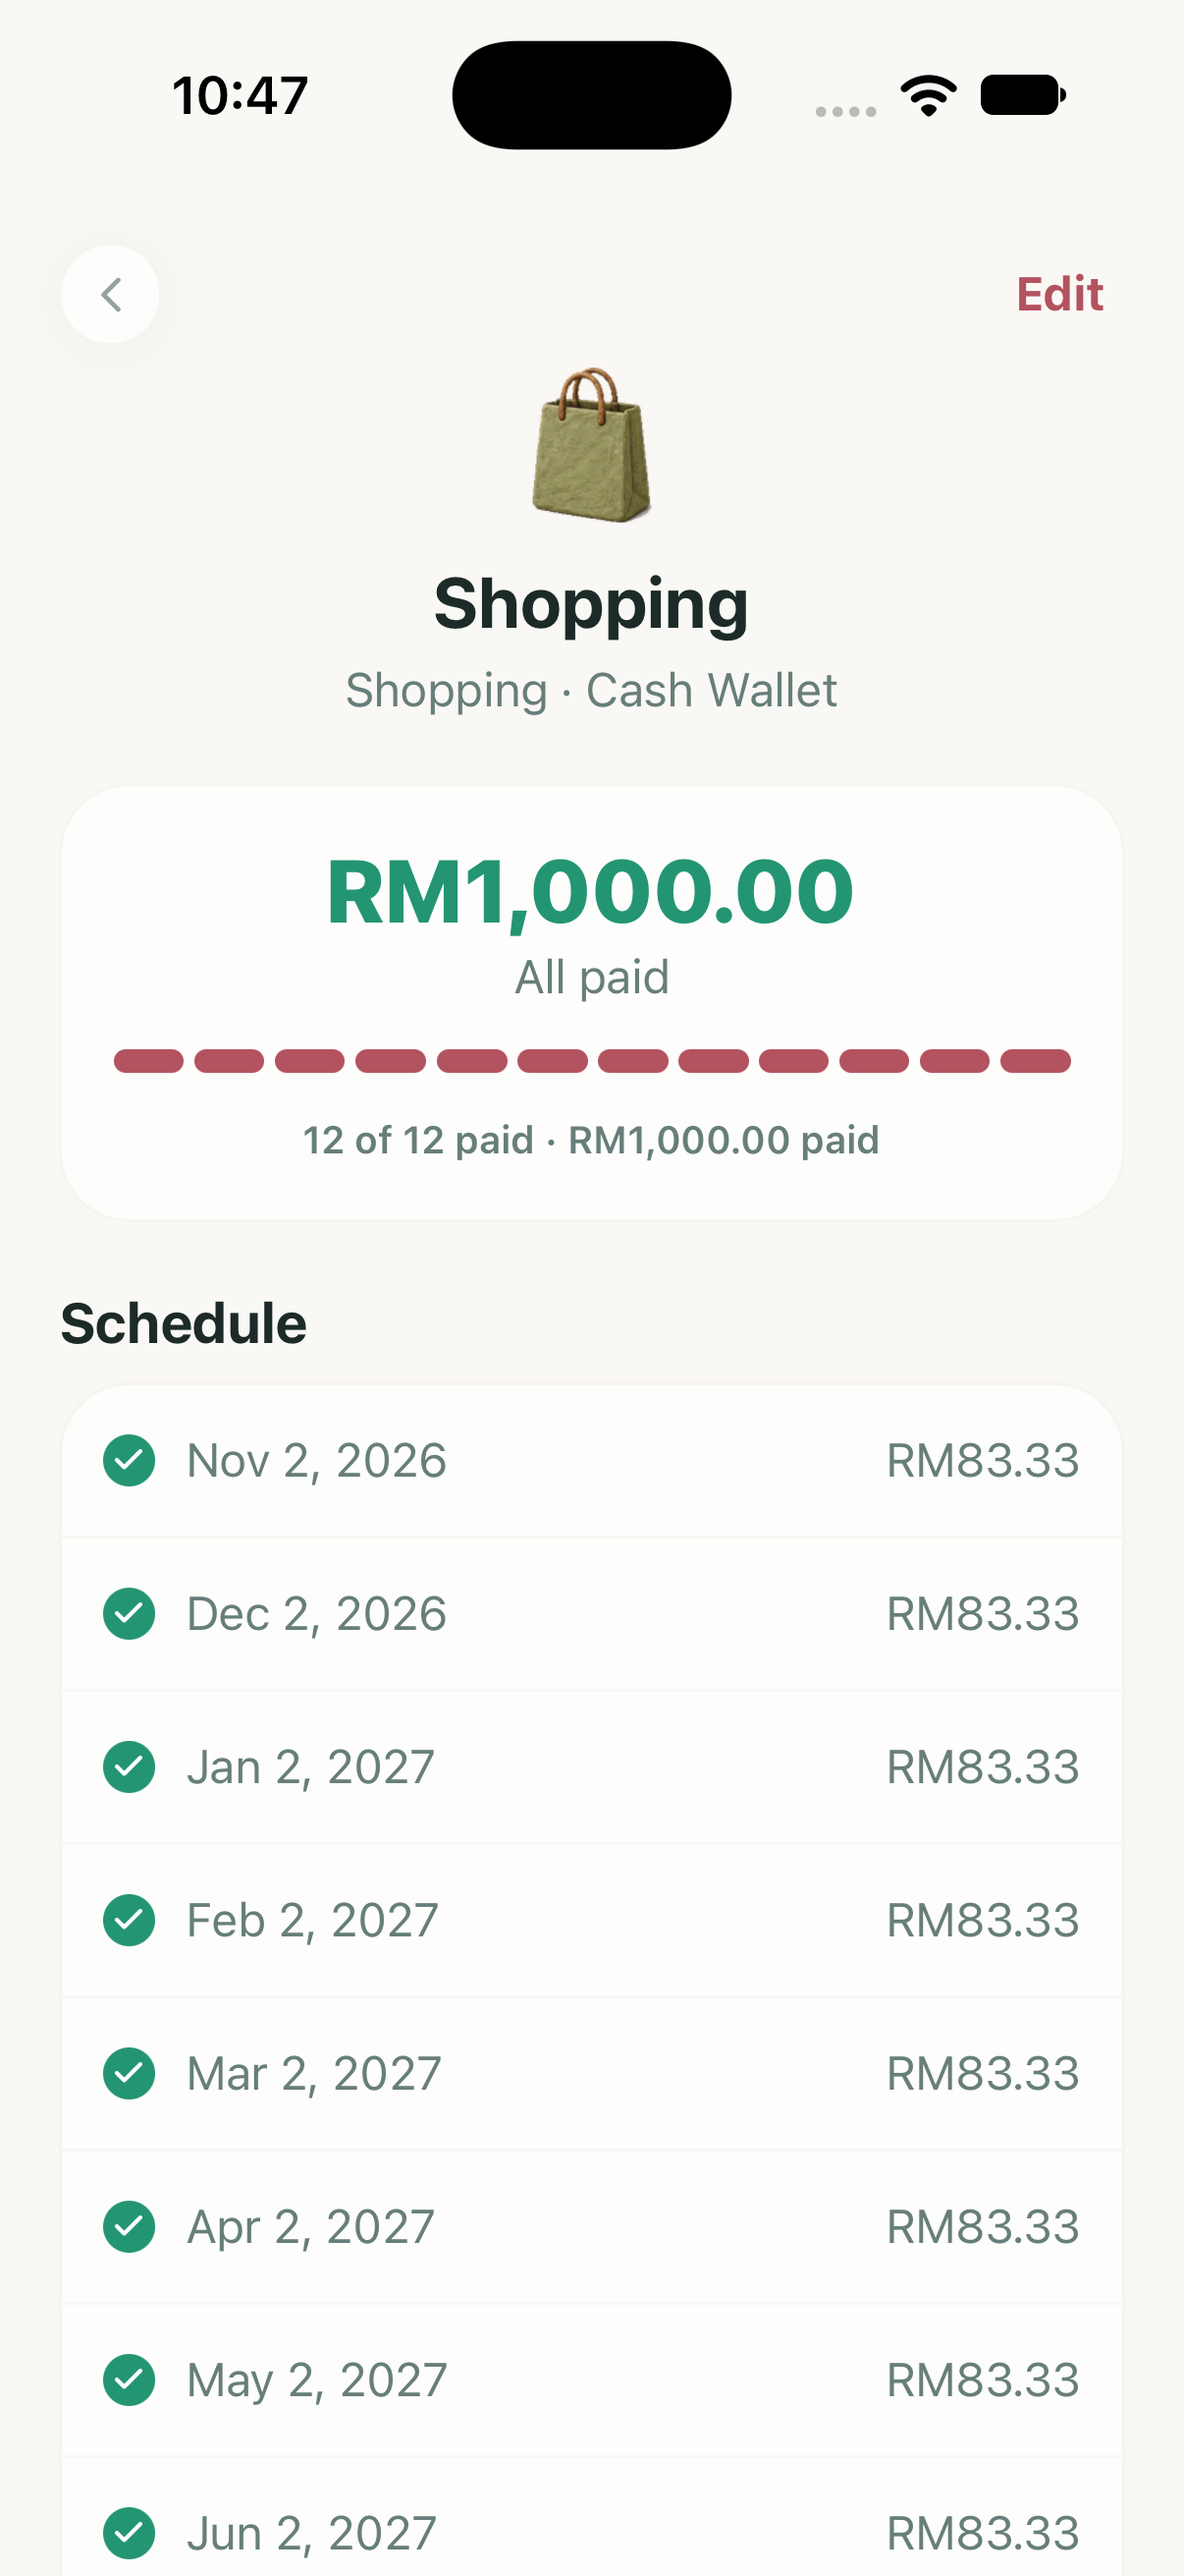
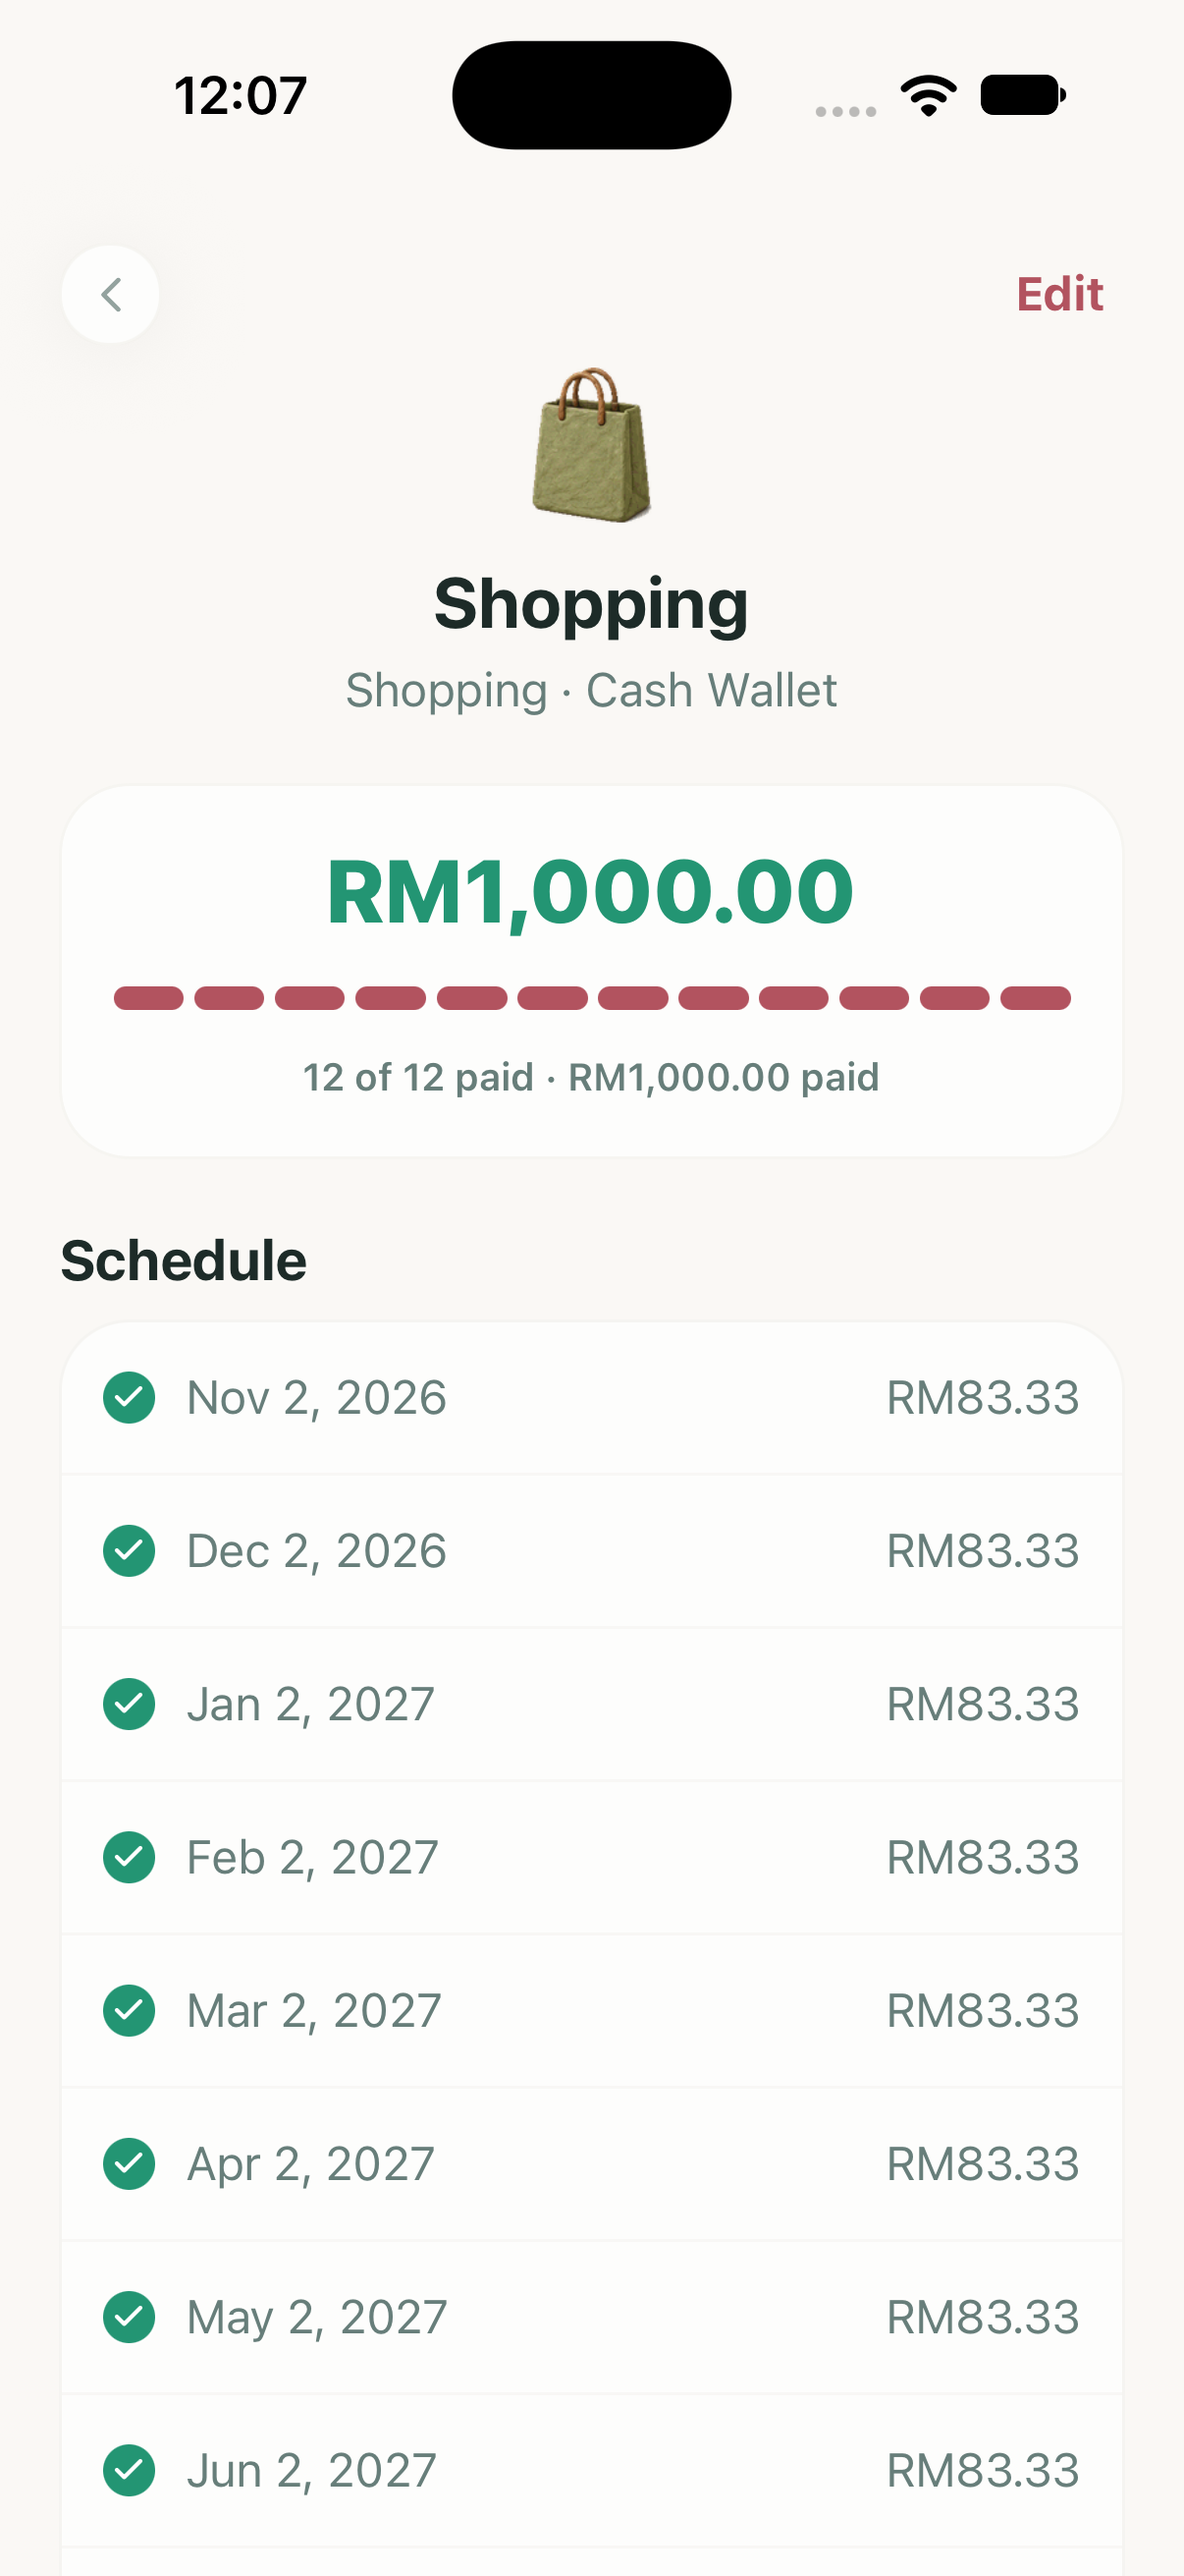
Put the last payment under Edit plan's amount; drop "All paid"
- The last payment shows under the typed amount, in the accent colour.
- A fully paid plan's page shows the green total and full bar without an
  "All paid" line; a plan that ended with payments skipped still says
  Finished.

diff --git a/apps/mobile/features/instalments/screens/InstalmentPlanScreen.tsx b/apps/mobile/features/instalments/screens/InstalmentPlanScreen.tsx
@@ -167,13 +167,15 @@ export function InstalmentPlanScreen({
               <Text variant="title" tone={plan.complete ? 'success' : 'default'}>
                 {plan.complete ? money(plan.paidAmount) : money(plan.leftAmount)}
               </Text>
-              <Text variant="body" tone="muted">
-                {plan.complete
-                  ? plan.paidCount === plan.entries.length
-                    ? I18n.t('instalments.all_paid')
-                    : I18n.t('instalments.section_finished')
-                  : I18n.t('instalments.left_label')}
-              </Text>
+              {/* Fully paid needs no words: the green total and full bar say it.
+                  A plan that ended with payments skipped says it finished. */}
+              {plan.complete && plan.paidCount === plan.entries.length ? null : (
+                <Text variant="body" tone="muted">
+                  {plan.complete
+                    ? I18n.t('instalments.section_finished')
+                    : I18n.t('instalments.left_label')}
+                </Text>
+              )}
             </View>
             <View className="self-stretch">
               <InstalmentProgressBar plan={plan} />
@@ -493,23 +495,23 @@ function InstalmentPlanEditSheet({
                     <Text variant="body" tone="muted">
                       {I18n.t('instalments.payment_amount')}
                     </Text>
-                    <TextInput
-                      value={amountText}
-                      onChangeText={setAmountText}
-                      keyboardType="decimal-pad"
-                      selectTextOnFocus
-                      style={[SINGLE_LINE_TEXT_INPUT_STYLE, { color: themeColors.text }]}
-                      className="h-12 flex-1 text-right text-[16px]"
-                      accessibilityLabel={I18n.t('instalments.payment_amount')}
-                    />
-                    {/* What the last payment becomes, right beside the amount. */}
-                    {amountValid && newLast != null ? (
-                      <View className="rounded-full bg-secondary/70 px-2 py-0.5">
-                        <Text variant="caption" tone="muted" numberOfLines={1}>
+                    {/* The amount, with what the last payment becomes under it. */}
+                    <View className="flex-1 items-end py-1.5">
+                      <TextInput
+                        value={amountText}
+                        onChangeText={setAmountText}
+                        keyboardType="decimal-pad"
+                        selectTextOnFocus
+                        style={[SINGLE_LINE_TEXT_INPUT_STYLE, { color: themeColors.text }]}
+                        className="h-9 self-stretch text-right text-[16px]"
+                        accessibilityLabel={I18n.t('instalments.payment_amount')}
+                      />
+                      {amountValid && newLast != null ? (
+                        <Text variant="caption" tone="primary" numberOfLines={1}>
                           {I18n.t('instalments.last_amount', { amount: money(newLast) })}
                         </Text>
-                      </View>
-                    ) : null}
+                      ) : null}
+                    </View>
                   </View>
                 ) : null}
               </View>

diff --git a/apps/mobile/lib/i18n/locales/th.ts b/apps/mobile/lib/i18n/locales/th.ts
@@ -1726,7 +1726,6 @@ const th = {
     status_skipped: 'ข้ามแล้ว',
     paid_of: '{{paid}}/{{count}}',
     next_payment: 'งวดถัดไป',
-    all_paid: 'จ่ายครบแล้ว',
     pay_early_title: 'จ่าย {{amount}} ตอนนี้เลยไหม?',
     pay_early_message: 'งวดนี้จะถูกบันทึกวันนี้ และแผนจะไปต่อที่งวดถัดไป',
     pay_now: 'จ่ายเลย',

diff --git a/apps/mobile/lib/i18n/locales/hi.ts b/apps/mobile/lib/i18n/locales/hi.ts
@@ -1749,7 +1749,6 @@ const hi = {
     status_skipped: 'छोड़ी गई',
     paid_of: '{{paid}}/{{count}}',
     next_payment: 'अगली किस्त',
-    all_paid: 'सब चुकता',
     pay_early_title: 'अभी {{amount}} चुकाएँ?',
     pay_early_message: 'यह किस्त आज जोड़ी जाएगी, और प्लान अगली किस्त पर चला जाएगा।',
     pay_now: 'अभी चुकाएँ',

diff --git a/apps/mobile/lib/i18n/locales/ru.ts b/apps/mobile/lib/i18n/locales/ru.ts
@@ -1761,7 +1761,6 @@ const ru = {
     status_skipped: 'Пропущено',
     paid_of: '{{paid}}/{{count}}',
     next_payment: 'Следующий платёж',
-    all_paid: 'Всё оплачено',
     pay_early_title: 'Оплатить {{amount}} сейчас?',
     pay_early_message: 'Платёж будет добавлен сегодня, и рассрочка перейдёт к следующему.',
     pay_now: 'Оплатить',

diff --git a/apps/mobile/lib/i18n/locales/uk.ts b/apps/mobile/lib/i18n/locales/uk.ts
@@ -1755,7 +1755,6 @@ const uk = {
     status_skipped: 'Пропущено',
     paid_of: '{{paid}}/{{count}}',
     next_payment: 'Наступний платіж',
-    all_paid: 'Усе сплачено',
     pay_early_title: 'Сплатити {{amount}} зараз?',
     pay_early_message: 'Платіж буде додано сьогодні, і розстрочка перейде до наступного.',
     pay_now: 'Сплатити',

diff --git a/apps/mobile/lib/i18n/locales/ja.ts b/apps/mobile/lib/i18n/locales/ja.ts
@@ -1747,7 +1747,6 @@ const ja = {
     status_skipped: 'スキップ',
     paid_of: '{{paid}}/{{count}}',
     next_payment: '次回の支払い',
-    all_paid: '支払い完了',
     pay_early_title: '{{amount}} を今支払いますか？',
     pay_early_message: 'この支払いは今日の日付で追加され、プランは次の回へ進みます。',
     pay_now: '今すぐ支払う',

diff --git a/apps/mobile/lib/i18n/locales/vi.ts b/apps/mobile/lib/i18n/locales/vi.ts
@@ -1742,7 +1742,6 @@ const vi = {
     status_skipped: 'Đã bỏ qua',
     paid_of: '{{paid}}/{{count}}',
     next_payment: 'Kỳ tiếp theo',
-    all_paid: 'Đã trả hết',
     pay_early_title: 'Trả {{amount}} ngay?',
     pay_early_message: 'Kỳ này được ghi hôm nay, và khoản trả góp chuyển sang kỳ tiếp theo.',
     pay_now: 'Trả ngay',

diff --git a/apps/mobile/lib/i18n/locales/ko.ts b/apps/mobile/lib/i18n/locales/ko.ts
@@ -1732,7 +1732,6 @@ const ko = {
     status_skipped: '건너뜀',
     paid_of: '{{paid}}/{{count}}',
     next_payment: '다음 납부',
-    all_paid: '모두 납부',
     pay_early_title: '지금 {{amount}} 납부할까요?',
     pay_early_message: '이 회차가 오늘 날짜로 추가되고 다음 회차로 넘어갑니다.',
     pay_now: '지금 납부',

diff --git a/apps/mobile/lib/i18n/locales/fr.ts b/apps/mobile/lib/i18n/locales/fr.ts
@@ -1772,7 +1772,6 @@ const fr = {
     status_skipped: 'Ignorée',
     paid_of: '{{paid}}/{{count}}',
     next_payment: 'Prochaine échéance',
-    all_paid: 'Tout payé',
     pay_early_title: 'Payer {{amount}} maintenant ?',
     pay_early_message: "Cette échéance est ajoutée aujourd'hui, et le plan passe à la suivante.",
     pay_now: 'Payer maintenant',

diff --git a/apps/mobile/lib/i18n/locales/ms.ts b/apps/mobile/lib/i18n/locales/ms.ts
@@ -1767,7 +1767,6 @@ const ms = {
     status_skipped: 'Dilangkau',
     paid_of: '{{paid}}/{{count}}',
     next_payment: 'Bayaran seterusnya',
-    all_paid: 'Semua dibayar',
     pay_early_title: 'Bayar {{amount}} sekarang?',
     pay_early_message: 'Bayaran ini ditambah hari ini, dan pelan beralih ke bayaran seterusnya.',
     pay_now: 'Bayar sekarang',

diff --git a/apps/mobile/lib/i18n/locales/de.ts b/apps/mobile/lib/i18n/locales/de.ts
@@ -1775,7 +1775,6 @@ const de = {
     status_skipped: 'Übersprungen',
     paid_of: '{{paid}}/{{count}}',
     next_payment: 'Nächste Rate',
-    all_paid: 'Alles bezahlt',
     pay_early_title: '{{amount}} jetzt zahlen?',
     pay_early_message: 'Diese Rate wird heute eingetragen, und der Plan geht zur nächsten über.',
     pay_now: 'Jetzt zahlen',

diff --git a/apps/mobile/lib/i18n/locales/pl.ts b/apps/mobile/lib/i18n/locales/pl.ts
@@ -1761,7 +1761,6 @@ const pl = {
     status_skipped: 'Pominięta',
     paid_of: '{{paid}}/{{count}}',
     next_payment: 'Następna rata',
-    all_paid: 'Wszystko spłacone',
     pay_early_title: 'Zapłacić {{amount}} teraz?',
     pay_early_message: 'Ta rata zostanie dodana dzisiaj, a plan przejdzie do następnej.',
     pay_now: 'Zapłać teraz',
